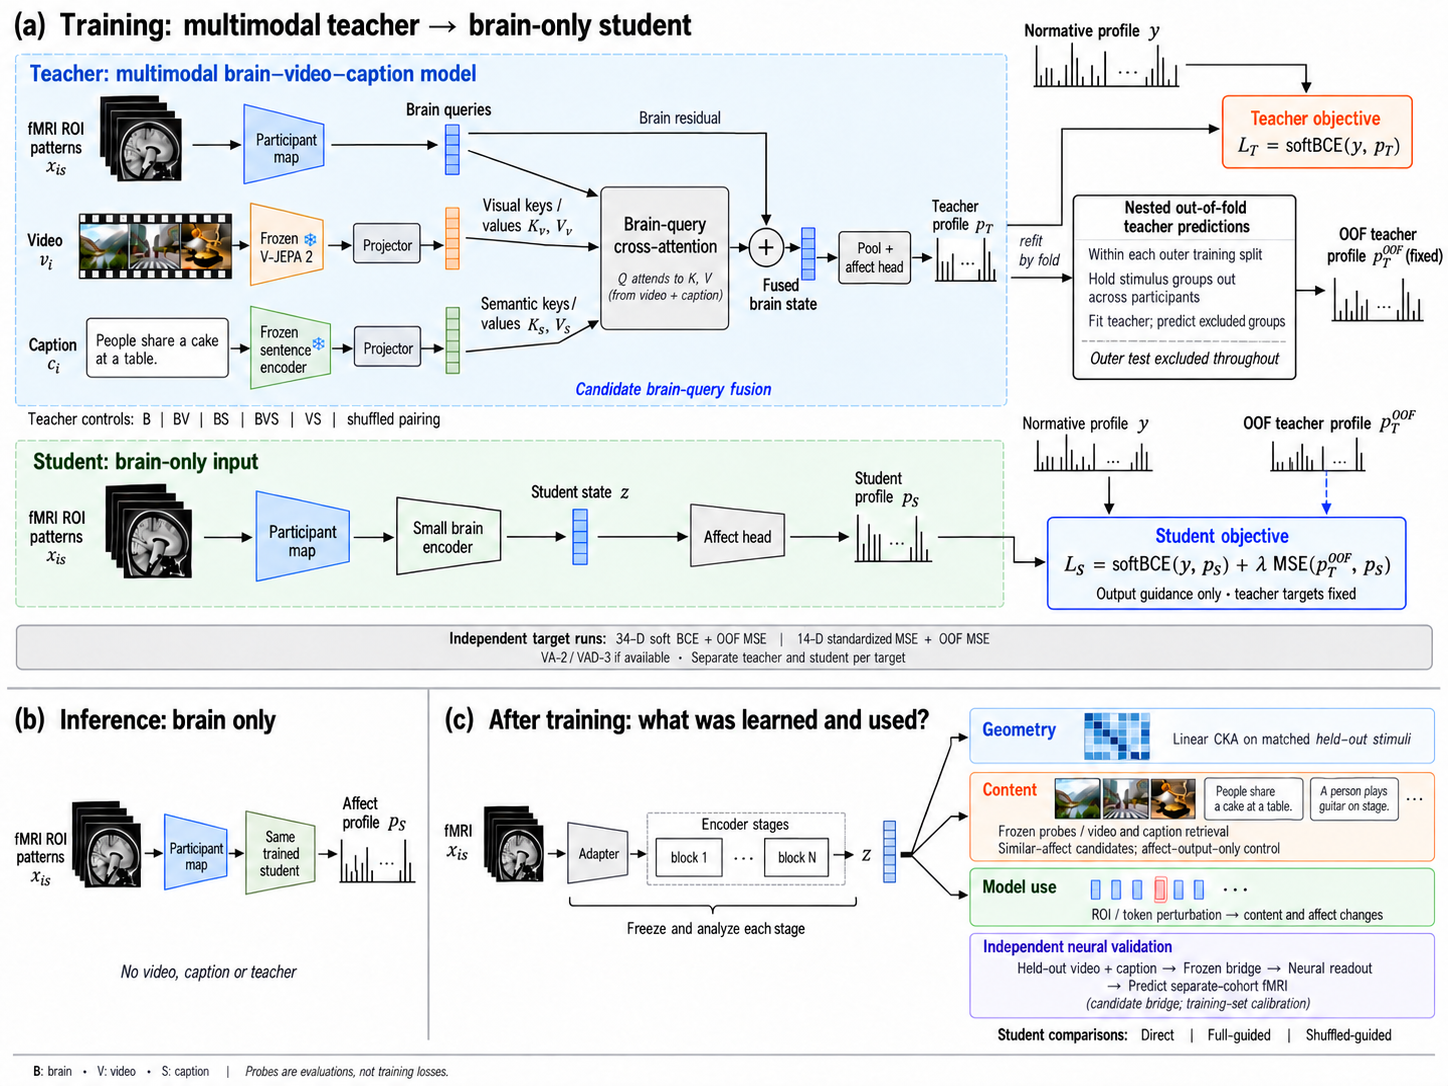
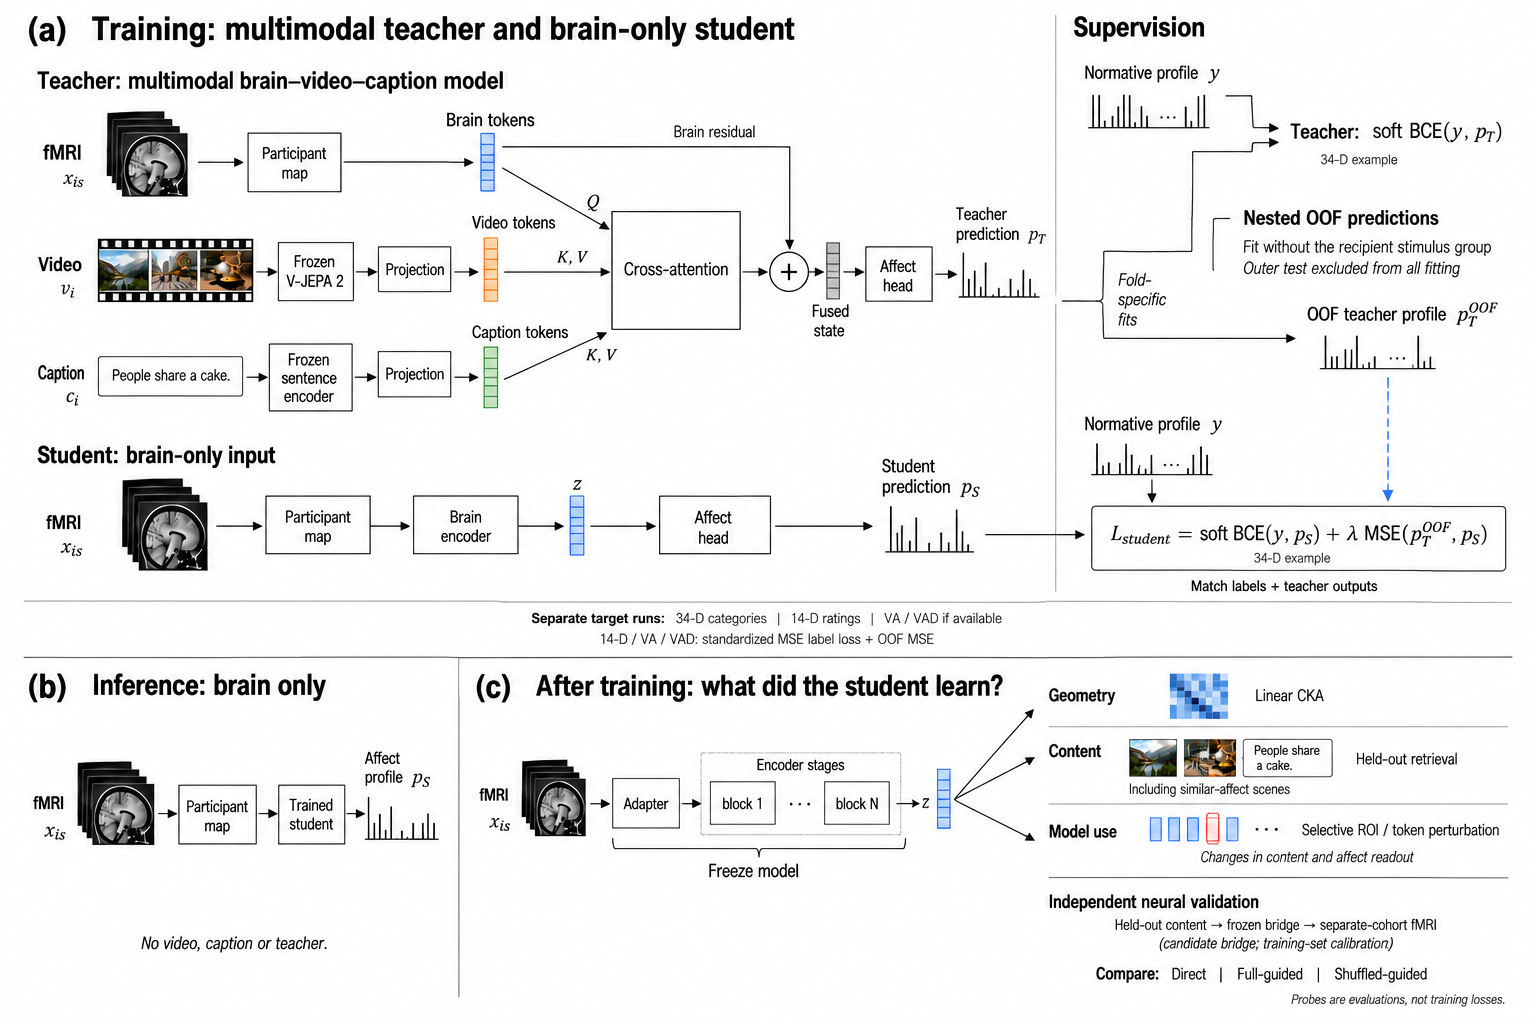
docs: simplify model figure styling and explain information flow

Changed region(s): [[0.0, 0.0, 1.0, 1.0], [0.0932, 0.875, 0.2175, 0.9375], [0.4351, 0.0938, 0.5283, 0.1562]]

diff --git a/docs/assets/model_architecture.md b/docs/assets/model_architecture.md
@@ -8,9 +8,16 @@ _Training, inference and representation analysis · 2026-10-06_
 
 ![Teacher–student training, brain-only inference and post-training analyses](model_architecture.png)
 
-The figure shows the candidate brain-query teacher, output-guided brain-only student, and post-training geometry, content and model-use analyses. Equations illustrate the 34-D case: sigmoid outputs, soft BCE labels and dimension-mean OOF probability MSE. The target strip describes the separate continuous-target runs. Repeated OOF-profile symbols denote the same type of cached prediction, not different supervision sources.
+The figure shows the candidate brain-query teacher, output-guided brain-only student, and post-training geometry, content and model-use analyses. Equations illustrate the 34-D case: sigmoid outputs, soft BCE labels and dimension-mean OOF probability MSE. The target strip describes the separate continuous-target runs.
 
 Sources: [implementation specification](../current/02_IMPLEMENTATION_SPEC.md), [study design](../current/01_STORY_AND_DESIGN.md), [independent neural validation](../current/06_NEURAL_VALIDATION_AMENDMENT.md). Depth, widths and the bridge implementation remain development decisions.
+
+### Reading the model
+
+1. **Teacher:** The brain pattern, video and caption each become token vectors. Brain queries select weighted video/caption information through cross-attention; this update is added to the original brain state. The affect head maps that state to a profile.
+2. **Student:** A separate encoder receives only fMRI. It learns from the normative annotation and the teacher's predicted profile. The second loss compares output values, not hidden representations.
+3. **OOF:** For a training stimulus, guidance comes from a teacher fitted without that stimulus group across participants. This fitting happens inside the student training split; its outer test set stays excluded.
+4. **After training:** CKA measures geometry similarity, retrieval tests accessible content, and selective perturbation tests model reliance. The candidate content-side bridge provides a separate route for independent neural validation.
 
 ### Design rationale
 
@@ -43,9 +50,16 @@ flowchart TB
 
 ## 📚 한국어
 
-이 그림은 후보 brain-query teacher, 출력 지도를 받는 brain-only student, 학습 후 geometry·content·모델 사용 분석을 보여준다. 수식은 34-D 기준으로 sigmoid 출력, soft BCE label loss, 차원 평균 OOF 확률 MSE를 나타낸다. 연속 target은 별도 학습하며 하단 target 띠에 표시했다. 반복된 OOF 프로필 표시는 동일한 종류의 예측 cache를 가리킨다.
+이 그림은 후보 brain-query teacher, 출력 지도를 받는 brain-only student, 학습 후 geometry·content·모델 사용 분석을 보여준다. 수식은 34-D 기준으로 sigmoid 출력, soft BCE label loss, 차원 평균 OOF 확률 MSE를 나타낸다. 연속 target은 별도 학습하며 하단 target 띠에 표시했다.
 
 기준 문서는 위 구현 사양·연구 설계·독립 뇌 검증 문서다. 깊이·너비·bridge 구현은 개발 단계 결정으로 남아 있다.
+
+### 모델 읽기
+
+1. **Teacher:** 뇌 패턴·영상·caption을 각각 token 벡터로 바꾼다. Brain query가 cross-attention으로 영상·caption 정보에 가중치를 주어 가져오고, 이를 원래 뇌 표상에 더한다. Affect head는 이 표상을 정서 프로필로 변환한다.
+2. **Student:** 별도 encoder가 fMRI만 입력받는다. 실제 규준 주석과 teacher 예측 프로필 두 가지를 참고해 학습한다. 두 번째 loss는 내부 표상이 아니라 출력값을 비교한다.
+3. **OOF:** 특정 학습 자극의 지도값은 모든 참가자에서 해당 자극 그룹을 제외하고 학습한 teacher로 만든다. 이 과정 전체가 student training split 안에서 이루어지며 outer test는 제외한다.
+4. **학습 후:** CKA는 표상 구조의 유사성, retrieval은 읽을 수 있는 내용, 선택적 교란은 모델의 정보 의존성을 조사한다. 후보 content-side bridge는 독립 뇌 검증을 위한 별도 경로다.
 
 ### 설계 근거
 
@@ -60,93 +74,77 @@ flowchart TB
 
 ## 🔧 Production / 제작
 
-Built-in image generation, using the user-provided figure as a layout reference. Reviewed inputs, residual fusion, output losses, OOF scope and evaluation routes. Independent neural validation uses held-out content rather than the evaluation brain. Illustrations and profile bars are schematic. The overview image is unchanged.
+Built-in image generation, using the current model for content and the user-provided figure for restrained styling. Removed tinted panels, decorative borders and redundant labels. Helvetica Neue styling was requested; the raster has no embedded font identity to verify. Reviewed inputs, residual fusion, output losses, OOF scope and evaluation routes. Independent neural validation uses held-out content rather than the evaluation brain. Illustrations and profile bars are schematic. The overview image is unchanged.
 
-내장 이미지 도구로 제작했고 사용자 첨부 그림의 배치를 참고했다. 입력, residual fusion, 출력 loss, OOF 범위, 평가 경로를 검수했다. 독립 뇌 검증은 평가 뇌가 아니라 held-out content를 입력으로 받는다. 이미지와 프로필 막대는 설명용이며 기존 Overview는 변경하지 않았다.
+내장 이미지 도구로 현재 모델 내용을 유지하고 사용자 첨부 그림의 절제된 스타일을 참고했다. 배경색·장식 테두리·중복 표기를 줄이고 Helvetica Neue 스타일을 요청했다. Raster 이미지이므로 실제 내장 폰트명을 검증할 수는 없다. 입력, residual fusion, 출력 loss, OOF 범위, 평가 경로를 검수했다. 독립 뇌 검증은 평가 뇌가 아니라 held-out content를 입력으로 받는다. 이미지와 프로필 막대는 설명용이며 기존 Overview는 변경하지 않았다.
 
 ### Generation prompt
 
 ```text
-Create a NEW standalone model figure for the current EmoBrain design, using the attached image ONLY for its clean academic visual style and three-part layout. Do NOT reproduce obsolete weighted-MSE training or Venn-circle fusion. This is a model architecture figure separate from the study overview.
+Restyle the FIRST image (current scientifically correct model figure) using the restrained academic appearance of the SECOND image (style reference). Create a clean Nature-style model plate with true-looking Helvetica Neue REGULAR-width letterforms throughout, headings Helvetica Neue Bold. Absolutely no condensed or narrow type, no handwritten fonts, no serif labels except mathematical symbols. Consistent medium-size body text and 3 sizes total. Increase whitespace. Do NOT imitate the dense condensed typography of image 1. This is a full redraw, not a colour filter.
 
-Canvas: generous landscape 4:3, high resolution, white background, crisp Helvetica/Arial, black fine arrows, subdued slate-blue brain path, muted amber video path, sage caption path. Avoid neon, gradients and decorative card styling. Small realistic grayscale MRI stack and filmstrip inputs like the reference. Legible labels, ample whitespace, safe margins. NO overall title, subtitle or date. Only panel titles.
-Panel (a) upper 65% full width: training. Panel (b) bottom left 28% width: inference. Panel (c) bottom right 72% width: after-training analysis. Thin grey separators.
+Landscape 3:2 or 4:3, spacious high resolution. Pure WHITE background. No coloured panel fills, no dashed group borders, no gradients, shadows, 3D trapezoids, cartoon icons, coloured cards or giant header. Thin black rules and arrows. Restrained colour only for small token stacks: brain slate blue, video ochre, caption sage; training guidance one muted blue dashed line. Most text black. Three panels a top 65% full width, b bottom left 30%, c bottom right 70%. Large equal outer margins.
 
-(a) heading "Training: multimodal teacher → brain-only student"
-Main TEACHER on upper-left two thirds, 3 horizontal input pathways:
-MRI stack "fMRI ROI patterns" → "Participant map" → little blue token stack "Brain queries Q"
-Filmstrip "Video" → "Frozen V-JEPA 2" → "Projector" → little amber token stack "Visual keys / values"
-Caption box text "People share a cake at a table." → "Frozen sentence encoder" → "Projector" → green token stack "Semantic keys / values"
-All three enter a box "Brain-query cross-attention": Q from brain, K/V from video+caption. Output goes to circled "+" receiving BOTH the attention output and a clearly drawn residual arrow from Brain queries Q. Label bypass "Brain residual".
-The plus outputs "Fused brain state" → "Pool + affect head" → "Teacher profile p_T" drawn as schematic bar vector.
-Caption under this group "Candidate brain-query fusion". No content-only skip to affect head. No LLM, no extra object/event branch.
+Use these concise labels and preserve correct information flow:
 
-To the UPPER RIGHT of teacher draw normative bar vector "Normative profile y" feeding compact orange label-loss box:
-"Teacher objective"
-"L_T = softBCE(y, p_T)"
-Clearly connect teacher profile to this loss box too. Frozen encoder icons only on pretrained video and sentence encoders, not the entire teacher.
+a heading "Training: multimodal teacher and brain-only student"
 
-On the RIGHT MIDDLE show a compact box headed "Nested out-of-fold teacher predictions".
-Inside, only 3 short lines:
-"Within each outer training split"
-"Hold stimulus groups out across participants"
-"Fit teacher; predict excluded groups"
-At bottom a small line "Outer test excluded throughout".
-From this box output a bar vector labelled "OOF teacher profile p_T^OOF (fixed)".
-Use a thin connector from teacher to OOF box to indicate repeated fold-specific fits, NOT the in-sample teacher prediction serving as OOF. Label that connector "refit by fold".
+Upper-left 'Teacher' schematic:
+Three input rows, each with simple tiny input illustration:
+'fMRI' → 'Participant map' → BLUE 'Brain tokens'
+'Video' → 'Frozen V-JEPA 2' → 'Projection' → OCHRE 'Video tokens'
+'Caption' → 'Frozen sentence encoder' → 'Projection' → SAGE 'Caption tokens'
+Caption example "People share a cake."
+Brain tokens enter a clean white thin black rectangular 'Cross-attention' as Q; video and caption tokens enter it as K,V. Add small port labels Q and K,V instead of verbose repeated keys/values.
+Cross-attention output enters circled '+'; a bypass from brain tokens also enters '+' labeled 'Brain residual'. Then '+' → small neutral token stack 'Fused state' → 'Affect head' → black thin-bar vector 'Teacher prediction'.
+No Venn circles, no content-to-head shortcut.
 
-Beneath teacher within PANEL (a), show a separate student TRAINING lane:
-"fMRI ROI patterns" → "Participant map" → "Small brain encoder" → "Student state z" → "Affect head" → "Student profile p_S".
-Label lane "Student: brain-only input".
-NO video or caption input to student.
-To its right a blue student objective box with TWO inputs: "Normative profile y" via solid line and "OOF teacher profile" via dashed blue line. Student prediction p_S also connects to the objective.
-Exact text:
-"Student objective"
-"L_S = softBCE(y, p_S) + λ MSE(p_T^OOF, p_S)"
-Small line "Output guidance only · teacher targets fixed"
-Use readable math, not an enormous formula. OOF guidance goes to this output loss, NOT to student z. Labels also supervise teacher. No visual reconstruction or joint-latent loss.
+Upper-right 'Supervision' area, plain open typography with a single fine separator, not boxed cards:
+'Normative profile y' drawn as small black bars.
+Line 'Teacher: soft BCE(y, p_T)'.
+Include a short discrete arrow from teacher prediction and from y into this teacher objective; do not send y twice.
+Below a small heading 'Nested OOF predictions'
+Only two explanatory lines:
+'Fit without the recipient stimulus group'
+'Outer test excluded from all fitting'
+Below show small black bars 'OOF teacher profile'.
+This denotes repeated fold-specific teacher fits, NOT a transformation of the teacher's in-sample predictions. If linking from teacher, connect from the teacher GROUP margin with a bracket labelled 'Fold-specific fits', not from the teacher prediction bars.
 
-Below these, a narrow light-grey strip across panel (a):
-"Independent target runs: 34-D soft BCE + OOF MSE | 14-D standardized MSE + OOF MSE"
-Second shorter line "VA-2 / VAD-3 if available · Separate teacher and student per target"
-The detailed displayed p_T / p_S objectives illustrate the 34-D case only; add small label "34-D example" near the objectives.
-A separate small line beneath teacher only if space "Teacher controls: B | BV | BS | BVS | VS | shuffled pairing".
-Define B=brain, V=video, S=caption in small legend at bottom, no giant legend.
+Below teacher a separate labelled 'Student' lane on the left:
+'fMRI' → 'Participant map' → 'Brain encoder' → small blue tokens 'z' → 'Affect head' → bars 'Student prediction'.
+On right of this lane put the simple student objective:
+'L_student = soft BCE(y, p_S) + λ MSE(p_T^OOF, p_S)'
+Direct solid line from student prediction to the objective.
+One dashed blue line from the OOF teacher profile down into the student objective.
+Solid line or clear label indicates normative y also supplies this objective.
+Below objective a single short phrase 'Match labels + teacher outputs'.
+Do NOT send OOF into z, no latent-alignment training loss.
+Tiny text next to equations '34-D example'.
+A single understated line at bottom of panel a:
+'Separate target runs: 34-D categories | 14-D ratings | VA / VAD if available'
+And a second short line:
+'14-D / VA / VAD: standardized MSE label loss + OOF MSE'
+Do not add long control lists in panel a. They are in the methods.
 
-(b) heading "Inference: brain only"
-MRI stack → "Participant map" → "Same trained student" → "Affect profile".
-Arrange on two lines if needed, arrows continuous.
-Below concise text "No video, caption or teacher".
-This is trained student from (a), not a separately optimized decoder.
+b heading 'Inference: brain only'
+Small MRI stack → 'Participant map' → 'Trained student' → black bar profile.
+Arrange with ample whitespace.
+One short line 'No video, caption or teacher'.
 
-(c) heading "After training: what was learned and used?"
-Left-to-right mini chain "fMRI" → "Adapter" → "Encoder stages" → "z"; bracket below "Freeze and analyze each stage". Do not prescribe exactly two blocks, depth is not frozen.
-From stages or z branch to three readable stacked panels:
-"Geometry" — a small heatmap; text "Linear CKA on matched held-out stimuli"
-"Content" — tiny video thumbnails and caption slips; text "Frozen probes / video and caption retrieval"
-second small line "Similar-affect candidates; affect-output-only control"
-"Model use" — small token group one selectively perturbed; text "ROI / token perturbation → content and affect changes".
-Below these three a slender fourth row
-"Independent neural validation"
-"Content-derived representation → separate-cohort fMRI"
-small "(candidate bridge; training-set calibration)"
-No arrow using held-out evaluation brain as predictor for this fourth row. Do not imply human neural causality.
-At bottom line "Student comparisons: Direct | Full-guided | Shuffled-guided".
-Small footer legend "B: brain · V: video · S: caption · Probes are evaluations, not training losses".
+c heading 'After training: what did the student learn?'
+Left small chain 'Adapter' → 'Encoder stages' → 'z'; bracket label 'Freeze model'.
+From the chain branch THREE arrows to unboxed rows separated by fine grey rules:
+'Geometry' — small neutral heatmap, 'Linear CKA'
+'Content' — two small video/caption examples, 'Held-out retrieval'
+small subline 'Including similar-affect scenes'
+'Model use' — simple few token squares one outlined, 'Selective ROI / token perturbation'
+small subline 'Changes in content and affect readout'
+Below these, a SEPARATE row not connected to the z arrows:
+'Independent neural validation'
+'Held-out content → frozen bridge → separate-cohort fMRI'
+Small '(candidate bridge; training-set calibration)'.
+Bottom line 'Compare: Direct | Full-guided | Shuffled-guided'.
+No repeated disclaimers, no paragraph footers, no coloured panels. Short final note only 'Probes are evaluations, not training losses.'
 
-Prioritize correct information flow and readable model, not prose. All profiles/heatmaps are schematic without numeric results. Unlike reference, fusion must be explicit Q / K,V with a brain residual, student training must be visible, OOF must be nested, and current 34-D loss is unweighted soft BCE plus teacher-output MSE (NOT weighted MSE, correlation loss, KL, or softmax). Keep the scientific workflow self-contained and visually intuitive.
-```
-
-### Revision prompt
-
-```text
-Correct only three information-flow details in this scientific model figure. Keep all layout, typography, colours, model blocks, equations, panels and margins otherwise unchanged.
-1. UPPER-RIGHT TEACHER OBJECTIVE: currently normative y has duplicate arrows and p_T is not clearly connected. Show exactly one arrow from the top normative profile y into 'Teacher objective', and a SEPARATE continuous thin black arrow from the actual Teacher profile p_T (the bars immediately after Pool + affect head) UP and RIGHT into that teacher objective. Remove any line between the OOF procedure box and the teacher objective. The teacher objective has exactly two incoming data lines: y and p_T.
-2. The OOF teacher profile on the far upper right is duplicated just above the Student objective. REMOVE the lower duplicate OOF bar plot and its label, leaving the student normative y plot unchanged. Connect the single upper-right 'OOF teacher profile p_T^OOF (fixed)' directly DOWN to the student objective with a continuous DASHED BLUE arrow. This is the only OOF guidance line. Student objective retains its other two inputs y and p_S and its existing formula.
-3. BOTTOM-RIGHT independent neural validation: REMOVE the arrow from student z to the fourth 'Independent neural validation' box. Only the first three Geometry, Content and Model use boxes receive branches from z. In the fourth box, replace the brain icon and old body text with an explicit small TWO-LINE content-only prediction route:
-'Held-out video + caption → Frozen bridge → Neural readout'
-'→ Predict separate-cohort fMRI'
-Small italic line '(candidate bridge; training-set calibration)'.
-Keep its heading 'Independent neural validation'. It must be visually separate from the three z-probe branches; no z arrow enters this box. Evaluation fMRI must not be an input. If needed increase that fourth box height slightly using bottom whitespace, but do not overlap the student-comparisons line or crop any content.
-These are corrections of information flow, not changes to design. Do not add any other panels or prose.
+Make it visually calm, beautifully aligned, spacious like a meticulously typeset journal figure. All mini profiles are schematic. The attached style example contains obsolete weighted MSE for 34-D: do not use that. Maintain soft BCE for 34-D labels, MSE for teacher-output guidance, and brain-only student input during BOTH training and inference. Preserve teacher brain residual, explicit student path, nested OOF and separate independent-validation path.
 ```
